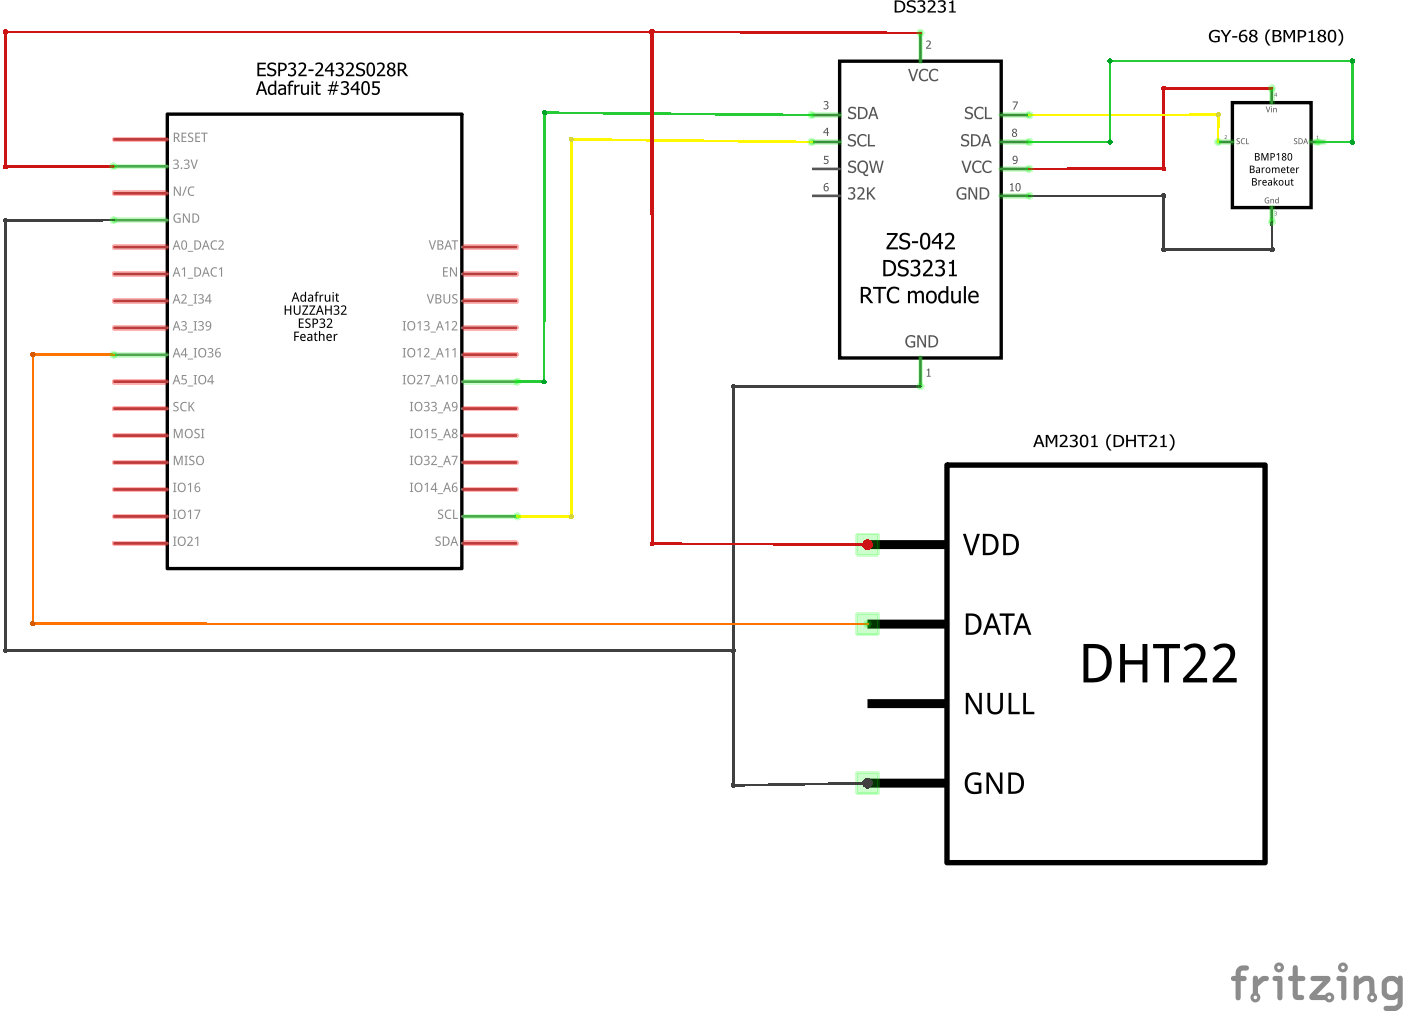
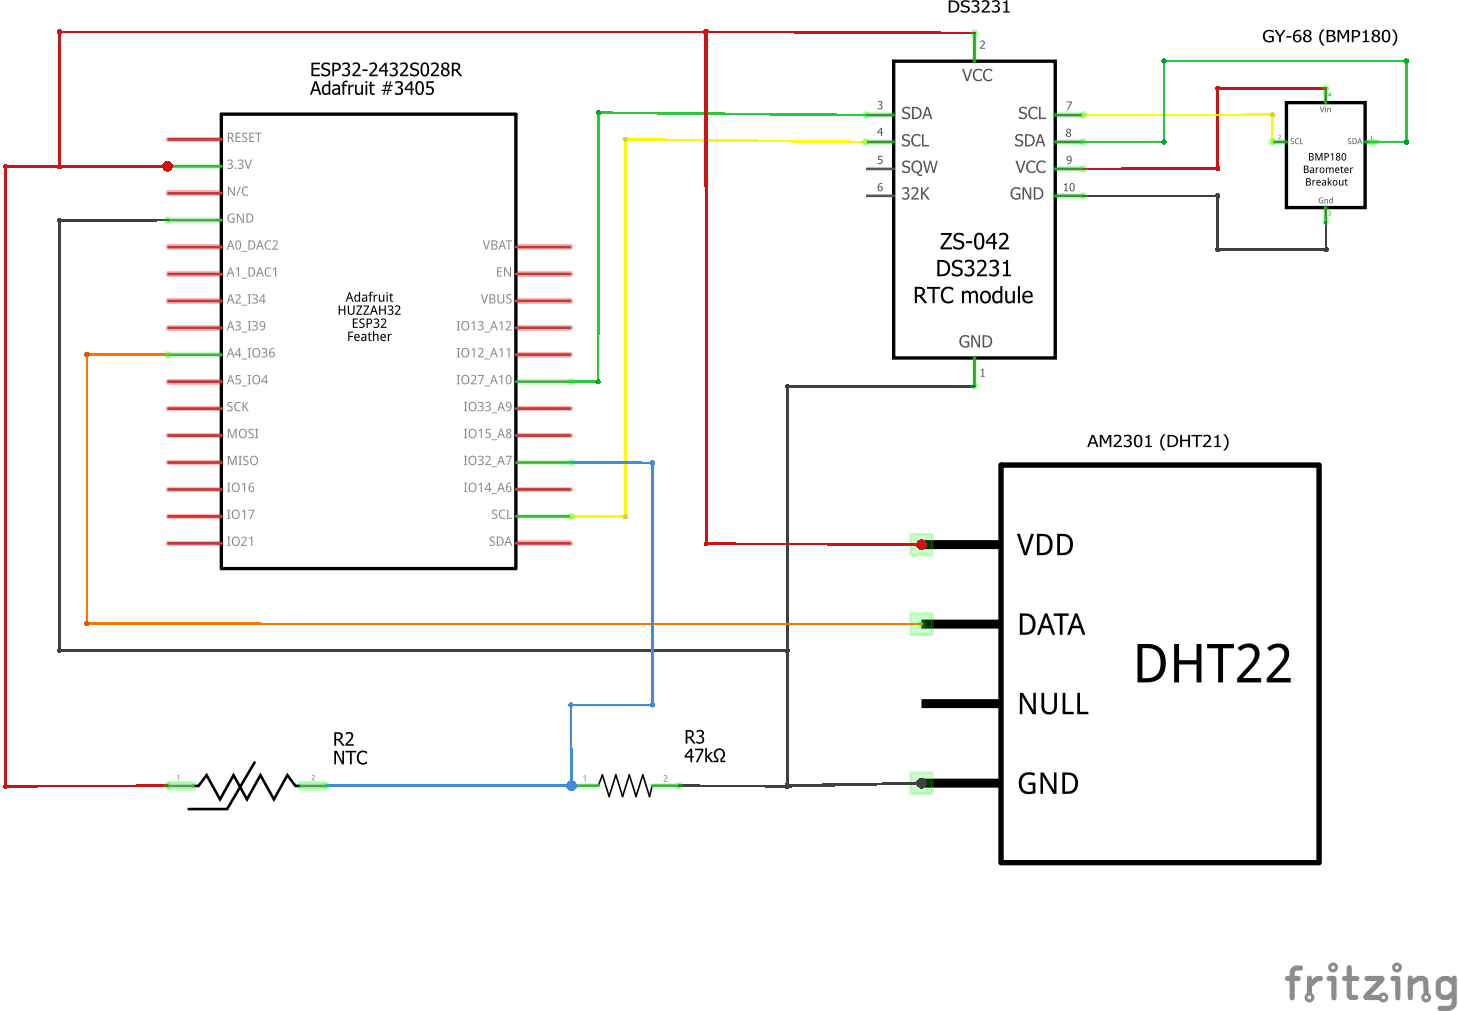
Added thermistor for internal temperature reading

diff --git a/sources/src/main.cpp b/sources/src/main.cpp
@@ -9,17 +9,17 @@
 #include <lvgl.h>
 #include "ui/ui.h"
 
-#define BERNA_FLY_CLOCK_VERSION "1.2"
+#define BERNA_FLY_CLOCK_VERSION "1.3"
 
 #define I2C_SDA 27
 #define I2C_SCL 22
 #define DHT_PIN 4
+#define THERMISTOR_PIN 35
 #define DHTTYPE DHT21
 #define EEPROM_SIZE 512
 
-// To compensate the internal BMP termhal sensor decrese the temperature measured by the sensor of BMP_COMPENSATION_TEMP °C in BMP_COMPENSATION_MIN minutes
-#define BMP_COMPENSATION_TEMP -3.1
-#define BMP_COMPENSATION_MIN 17
+#define BMP_READ_INTERVAL 3000UL // 3 Seconds
+#define THERMISTOR_READ_INTERVAL 3000UL // 3 Seconds
 
 // I2C Setup
 TwoWire I2CBME = TwoWire(0);
@@ -33,16 +33,24 @@ TimeChangeRule mySTD = {"CET", Last, Sun, Nov, 2, 60}; //Standard time = UTC - 1
 Timezone myTZ(myDST, mySTD);
 TimeChangeRule *tcr;
 
-// Pressure and temperature sensor (inside)
+// Pressure sensor (inside)
 Adafruit_BMP085 bmp;
+
+// Temperature sensor thermistor (inside)
+double adcMax = 4095.0; // ADC resolution 12-bit (0-4095)
+double R1 = 46400.0;    // Resistnce of the known resistor
+double Ro = 37000.0;    // Resistance of Thermistor at 25 degree Celsius
+double Beta = 3950.0;   // Beta value
+double To = 298.15;     // Temperature in Kelvin for 25 degree Celsius
 
 // Temperature sensor (outside)
 DHT outsideTempSensor(DHT_PIN, DHTTYPE);
 
 // System variables
 time_t startRunTime;
-bool tftInit, i2cserialInit, rtcInit, bmpInit, dhtInit, bmpCompensationDone, showRuntimeSeconds, showPressure;
+bool tftInit, i2cserialInit, rtcInit, bmpInit, dhtInit, showRuntimeSeconds, showPressure;
 int fuelTankChangeAlertMin, fuelTankChangeAlertMessageBoxCounter;
+unsigned long bmpPollingTarget = 0UL, thermistorPollingTarget = 0UL;
 lv_obj_t * fuelTankChangeAlertMessageBox;
 
 void setup()
@@ -65,7 +73,7 @@ void setup()
   rtcInit = rtc.begin(&I2CBME); // Initialize RTC
   bmpInit = bmp.begin(BMP085_ULTRAHIGHRES, &I2CBME); // Initialize BMP Pressure Sensor
   outsideTempSensor.begin(); // Initialize DHT Temperature Sensor
-  delay(500);
+  delay(700);
   dhtInit = !(isnan(outsideTempSensor.readHumidity()) || isnan(outsideTempSensor.readTemperature()));
 
   // Only for set RTC DateTime - (1m 30s for compile time and upload)
@@ -92,7 +100,7 @@ void setup()
     startRunTime = esp32Rtc.getEpoch();
   }
 
-  // Check if BMP (Inside Temperature Sensor) Connection is ok
+  // Check if BMP (Pressure) Connection is ok
   if (bmpInit) {
     Serial.println("BMP init OK");
   } else{
@@ -107,6 +115,9 @@ void setup()
     Serial.println("DHT init ERROR!");
     sprintf(errorBuffer, "%sDHT init ERROR!\n", errorBuffer);
   }
+  
+  // Initialize Thermistor for inside temperature
+  pinMode(THERMISTOR_PIN, INPUT);
 
   // Load Fuel Tank Change Alert Setting from EEPROM address 0
   fuelTankChangeAlertMessageBoxCounter = 0;
@@ -122,9 +133,6 @@ void setup()
   
   // Set to show pressure value as default
   showPressure = true;
-
-  // Set bool bmpCompensationDone to false to avoid duplicate in case of millis restart from 0
-  bmpCompensationDone = false;
 
   Serial.println("Initialization complete!");
 
@@ -158,43 +166,86 @@ void updateDatimeFromRTC() {
   lv_label_set_text(ui_HourText, buf);
 }
 
-double getBMPCorrectionValue() {
-  if (BMP_COMPENSATION_TEMP == 0 || BMP_COMPENSATION_MIN <= 0)
-    return 0;
-  
-  long runtimeMillis = millis();
-
-  // If total time is not over
-  if (!bmpCompensationDone && runtimeMillis <= BMP_COMPENSATION_MIN*60000) {
-    double multiplierMillis = BMP_COMPENSATION_TEMP/(BMP_COMPENSATION_MIN*60000);
-    return runtimeMillis * multiplierMillis;
-  } else {
-    bmpCompensationDone = true;
-    return BMP_COMPENSATION_TEMP;
-  }
-}
-
-void updateInsideTemperatureAndPressure() {
+void updatePressure() {
   char status, buf[25];
-  double T = -1, P = -1;
+  double P = -1;
 
-  T = (double) bmp.readTemperature() + getBMPCorrectionValue();
   P = (double) bmp.readSealevelPressure()/100;
 
-  // Update inside temperature
-  if(T >= 0) {
-    sprintf(buf,"+%0.1f °C",T);
-  }
-  else {
-    sprintf(buf,"%0.1f °C",T);
-  }
-  lv_label_set_text(ui_InTempText, buf);
-  
   // Update pressure
   if (showPressure) {
     sprintf(buf,"%0.1f hPa", P);
     lv_label_set_text(ui_PressureText, buf);
   }
+}
+
+float thermistorAverageTemperature(float currentValueFromThermistor) {
+  const int qtyReads = 25;
+  static bool fistExecution = true;
+  static float readings[qtyReads];
+  static int readIndex = 0;
+  static float total = 0;
+  float average = 0;
+
+  // If is the first execution initialize array
+  if (fistExecution == true) {
+    // Fill the entire array with current value
+    for (int i = 0; i < qtyReads; i++) { 
+      readings[i] = currentValueFromThermistor;
+    }
+    total = currentValueFromThermistor * qtyReads; // Average value at first execution
+    fistExecution = false;
+  }
+  
+  // Remove last value readed from the array
+  total = total - readings[readIndex];
+
+  // Set current value to active index
+  readings[readIndex] = currentValueFromThermistor;
+
+  // Add the current value readed from thermistor to total
+  total = total + readings[readIndex];
+
+  // Increment index
+  readIndex++;
+
+  // Reset index to 0 if the end of the array is reached
+  if (readIndex >= qtyReads)
+    readIndex = 0;
+
+  // Calculate the average value
+  average = total / qtyReads;
+
+  return average;
+}
+
+float getInsideTemperature() {
+  int Vo; // Holds the ADC Value
+  float R2, tKelvin, tCelsius, tFahrenheit;
+  char status, buf[25];
+
+  Vo = analogRead(THERMISTOR_PIN);
+  R2 = R1 * (adcMax / (float)Vo - 1.0); // Resistance of the Thermistor
+  tKelvin = (Beta * To) / (Beta + (To * log(R2 / Ro)));
+  tCelsius = tKelvin - 273.15;
+  tFahrenheit = (tCelsius * 9.0) / 5.0 + 32.0;
+
+  // Update average read from thermistor and return
+  return thermistorAverageTemperature(tCelsius);
+}
+
+void updateInsideTemperature() {
+  char buf[25];
+  float tCelsius = getInsideTemperature();
+
+  // Update inside temperature
+  if(tCelsius >= 0) {
+    sprintf(buf,"+%0.1f °C",tCelsius);
+  }
+  else {
+    sprintf(buf,"%0.1f °C",tCelsius);
+  }
+  lv_label_set_text(ui_InTempText, buf);
 }
 
 void updateOutsideTemperature() {
@@ -305,7 +356,18 @@ void loop()
     updateDatimeFromRTC();
 
   if(bmpInit)
-    updateInsideTemperatureAndPressure();
+    // Read value from BMP sensor every BMP_READ_INTERVAL or at startup
+    if ((millis () - bmpPollingTarget >= BMP_READ_INTERVAL) || bmpPollingTarget == 0) {
+      bmpPollingTarget = millis ();
+      updatePressure();
+    }
+  
+  // Read value from THERMISTOR sensor every THERMISTOR_READ_INTERVAL or at startup
+  if ((millis () - thermistorPollingTarget >= THERMISTOR_READ_INTERVAL) || thermistorPollingTarget == 0) {
+    thermistorPollingTarget = millis ();
+    updateInsideTemperature();
+  }
+  getInsideTemperature();
 
   if(dhtInit)
     updateOutsideTemperature();

diff --git a/sources/lib/esp32-smartdisplay/esp32_smartdisplay.cpp b/sources/lib/esp32-smartdisplay/esp32_smartdisplay.cpp
@@ -58,7 +58,7 @@ void smartdisplay_init()
   ledcAttachPin(LED_PIN_B, LED_PWM_CHANNEL_B);*/
 
   // Setup CDS Light sensor
-  analogSetAttenuation(ADC_0db); // 0dB(1.0x) 0~800mV
+  analogSetPinAttenuation(CDS_PIN, ADC_0db); // 0dB(1.0x) 0~800mV
   pinMode(CDS_PIN, INPUT);
 
   // Audio
